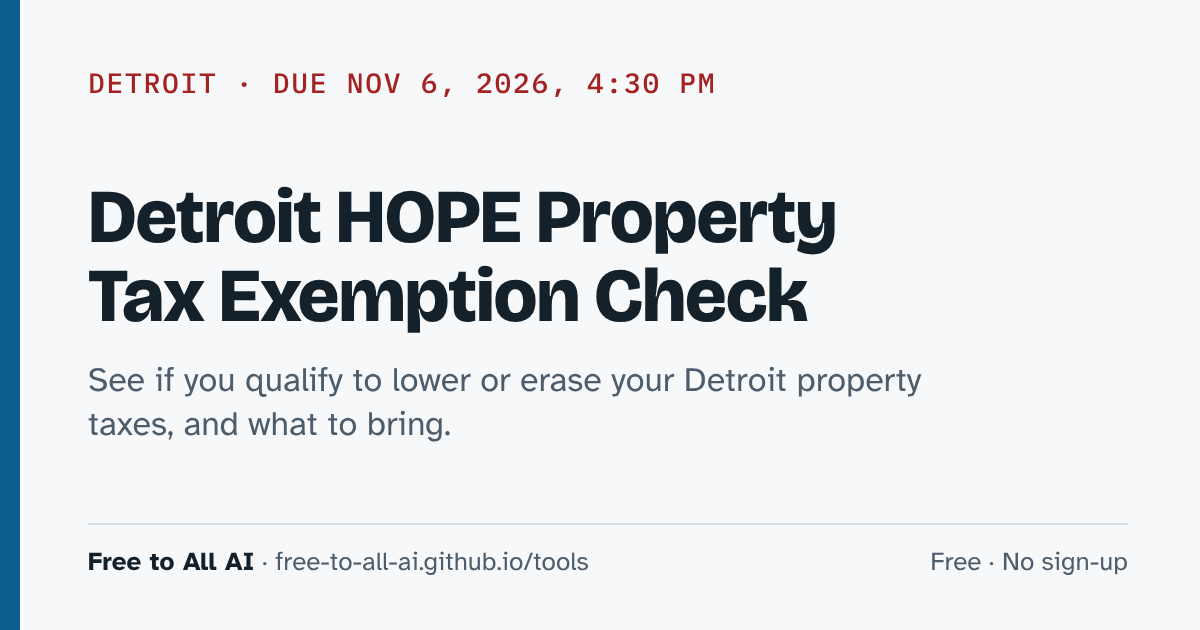
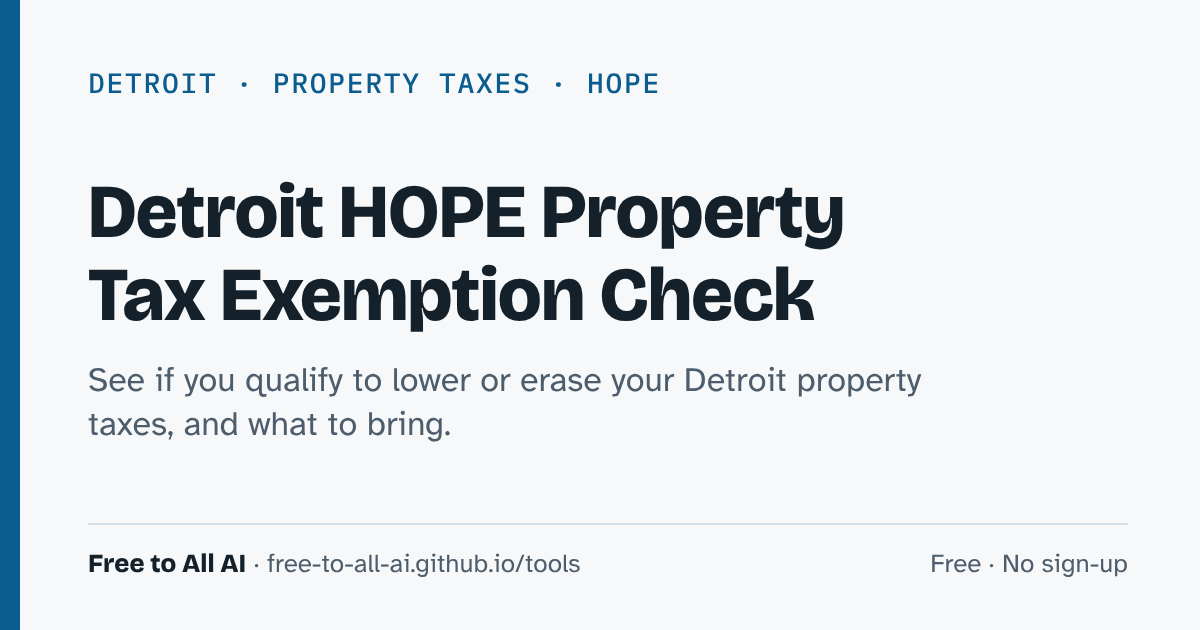
Update deadline text that had passed
The Detroit HOPE deadline (Nov 6, 2026) has passed, so the homepage no
longer lists it as coming up. Its card moves to All tools and says the
2026 deadline is over, and the page title, description, and link
preview drop the due date. The tool itself already showed the deadline
as passed.

UIA's switch to MiUI finished Nov 9, 2026 (LEO release, Nov 9), so the
unemployment tool, its homepage card, and the README no longer describe
the Nov 2 to 9 shutdown as ahead. The date math for notices from that
stretch is unchanged.

The winter shutoff card now says protection runs Nov 1 to Mar 31.
Sitemap dates updated for the three changed pages. Checked Nov 14, 2026.

Claude-Session: https://claude.ai/code/session_01MVRMsMwzsgmDkhtZdYY4EV

diff --git a/index.html b/index.html
@@ -98,15 +98,10 @@ footer { font-size: 14px; color: var(--muted); display: grid; gap: 8px; border-t
   </header>
 
   <section aria-labelledby="h-soon">
-    <h2 id="h-soon">Deadlines coming up</h2>
+    <h2 id="h-soon">In season now</h2>
     <ul class="tools">
       <li class="tool urgent">
-        <span class="when">Detroit · Due Friday, Nov 6, 2026, 4:30 PM</span>
-        <h3><a href="hope-exemption/">Detroit HOPE Property Tax Exemption Check</a></h3>
-        <p>Can't pay your Detroit property taxes? HOPE, the city's poverty exemption, can lower or wipe out your property taxes if your income is under the limit. See if you likely qualify and what your HOPE application needs. You don't have to be a senior.</p>
-      </li>
-      <li class="tool urgent">
-        <span class="when">Michigan · Winter protection starts Sunday, Nov 1</span>
+        <span class="when">Michigan · Winter protection runs Nov 1 to Mar 31</span>
         <h3><a href="shutoff-protection/">Michigan Winter Shutoff Protection Check</a></h3>
         <p>Behind on your DTE, Consumers Energy, SEMCO, or Michigan Gas Utilities bill, or holding a shut off notice? From November 1 to March 31, the Winter Protection Plan and the rules for seniors stop many shutoffs, and a medical hold works all year. See what fits you, about what you'd pay to stay on, and who can help pay.</p>
       </li>
@@ -117,6 +112,11 @@ footer { font-size: 14px; color: var(--muted); display: grid; gap: 8px; border-t
   <section aria-labelledby="h-all">
     <h2 id="h-all">All tools</h2>
     <ul class="tools">
+      <li class="tool">
+        <span class="where">Detroit · Property taxes</span>
+        <h3><a href="hope-exemption/">Detroit HOPE Property Tax Exemption Check</a></h3>
+        <p>Can't pay your Detroit property taxes? HOPE, the city's poverty exemption, can lower or wipe out your property taxes if your income is under the limit. The 2026 deadline (Nov 6) has passed. See if you'd likely qualify on the 2026 limits and what an application needs, so you're ready when the city posts the 2027 one. You don't have to be a senior.</p>
+      </li>
       <li class="tool">
         <span class="where">Michigan · Renters</span>
         <h3><a href="renter-rights/">Michigan Renter Rights Check</a></h3>
@@ -170,7 +170,7 @@ footer { font-size: 14px; color: var(--muted); display: grid; gap: 8px; border-t
       <li class="tool">
         <span class="where">Michigan · Unemployment</span>
         <h3><a href="uia-protest/">Michigan Unemployment Protest Deadline Check</a></h3>
-        <p>UIA denied your unemployment, cut it, or says you were overpaid? See the last day UIA must receive your protest or appeal, counting weekends, holidays, and the Nov. 2 to 9, 2026 switch to MiUI. Shows where to fax or mail it and drafts the letter.</p>
+        <p>UIA denied your unemployment, cut it, or says you were overpaid? See the last day UIA must receive your protest or appeal, counting weekends and Michigan legal holidays. Shows where to file, fax, or mail it and drafts the letter.</p>
       </li>
       <li class="tool">
         <span class="where">Michigan · Tax credits</span>

diff --git a/hope-exemption/index.html b/hope-exemption/index.html
@@ -3,14 +3,14 @@
 <head>
 <meta charset="utf-8">
 <meta name="viewport" content="width=device-width, initial-scale=1, viewport-fit=cover">
-<title>Detroit HOPE Property Tax Exemption Check (Due Nov 6)</title>
+<title>Detroit HOPE Property Tax Exemption Check: Income Limits</title>
 <meta name="claude:viewport-fit-sides" content="cover">
-<meta name="description" content="See if you qualify for Detroit's 2026 HOPE property tax exemption. Check the income limits for your household size and what to bring. Due Nov 6, 4:30 PM. Free.">
+<meta name="description" content="See if you'd qualify for Detroit's HOPE property tax exemption. Check the 2026 income limits for your household size and what to bring. The 2026 deadline was Nov 6. Free.">
 <link rel="canonical" href="https://free-to-all-ai.github.io/tools/hope-exemption/">
 <meta property="og:type" content="website">
 <meta property="og:site_name" content="Free to All AI">
-<meta property="og:title" content="Detroit HOPE Property Tax Exemption Check (Due Nov 6)">
-<meta property="og:description" content="See if you qualify for Detroit's 2026 HOPE property tax exemption. Check the income limits for your household size and what to bring. Due Nov 6, 4:30 PM. Free.">
+<meta property="og:title" content="Detroit HOPE Property Tax Exemption Check: Income Limits">
+<meta property="og:description" content="See if you'd qualify for Detroit's HOPE property tax exemption. Check the 2026 income limits for your household size and what to bring. The 2026 deadline was Nov 6. Free.">
 <meta property="og:url" content="https://free-to-all-ai.github.io/tools/hope-exemption/">
 <meta property="og:image" content="https://free-to-all-ai.github.io/tools/og/hope-exemption.png">
 <meta name="twitter:card" content="summary_large_image">

diff --git a/uia-protest/index.html b/uia-protest/index.html
@@ -229,7 +229,7 @@ footer { font-size: 14px; color: var(--muted); display: grid; gap: 8px; border-t
       <li><strong>UIA Advocacy Program, 1-800-638-3994, option 2.</strong> A free advocate can help you at your first hearing with a judge. Call after you get your Notice of Hearing, at least two business days before the hearing. Some cases don't qualify.</li>
       <li><a href="https://michiganlegalhelp.org/resources/employment/overview-of-unemployment-benefits" target="_blank" rel="noopener">Michigan Legal Help: Overview of Unemployment Benefits</a>, and its <a href="https://michiganlegalhelp.org/guide-to-legal-help" target="_blank" rel="noopener">Guide to Legal Help</a> to find free legal aid near you.</li>
       <li><a href="https://www.michbar.org/public_resources/legalaid" target="_blank" rel="noopener">State Bar of Michigan legal aid directory</a>. Look for "employment" or "unemployment."</li>
-      <li>UIA customer service: 1-866-500-0017 (TTY 1-866-366-0004), Monday to Friday, 8 AM to 4:30 PM. Phones and offices are closed from 4:30 PM Monday, Nov. 2, 2026 until 8 AM Monday, Nov. 9.</li>
+      <li>UIA customer service: 1-866-500-0017 (TTY 1-866-366-0004), Monday to Friday, 8 AM to 4:30 PM.</li>
       <li><a href="https://www.michigan.gov/lara/bureau-list/moahr/employment/unemployment" target="_blank" rel="noopener">MOAHR unemployment hearings</a>: 313-456-2700, MOAHRUA@michigan.gov.</li>
       <li><a href="https://www.michigan.gov/leo/boards-comms-councils/welcome-to-the-michigan-unemployment-insurance-appeals-commission" target="_blank" rel="noopener">Unemployment Insurance Appeals Commission</a>: 800-738-6372 or 517-284-9300.</li>
     </ul>

diff --git a/README.md b/README.md
@@ -27,12 +27,12 @@ This repo is a shelf of small, free tools for regular people. Each one does one 
 | [Gig Driver True Pay Calculator](gig-pay/) | Takes the pay, hours, and miles from your rideshare or delivery app and shows what you really made per hour after car costs. Shows unpaid miles and hours, a tax set-aside, and whether an offer is worth taking. | IRS standard mileage rates (Notice 2026-10 and Announcement 2026-11), IRS self-employment tax rules, and Michigan's minimum wage law, checked Oct 30, 2026 |
 | [Benefits Cut Letter Deadlines](benefits-deadlines/) | For a Michigan letter that denies, lowers, or stops food assistance (SNAP), Medicaid, cash, or child care help. Works out the last day to ask for a hearing and keep your benefits while you wait, and the last day to ask at all. Drafts the hearing request. | MDHHS Bridges Administrative Manual (BAM 600, 220, and 210), 7 CFR 273.15, and 42 CFR 431, checked Oct 30, 2026 |
 | [Michigan Back Pay Check](back-pay/) | Shows Michigan's minimum wage by date. Takes your hours and pay week by week and works out unpaid minimum wage, overtime, and promised pay, plus your filing deadlines. Gives a summary to paste into the state's free wage claim and the steps to file it. | Michigan's Improved Workforce Opportunity Wage Act (MCL 408.934 to 408.939), Payment of Wages Act (MCL 408.481 to 408.488), and the state labor department's rate history and claim form, checked Oct 30, 2026 |
-| [Detroit HOPE Property Tax Exemption Check](hope-exemption/) | For Detroit homeowners. Takes household size, income, and savings and shows whether you likely qualify for a full or partial HOPE property tax exemption on the city's 2026 table. Gives the November 6, 2026 deadline, what to bring, how to apply, and the note that only the Board of Review decides. | The City of Detroit's 2026 HOPE page and application, and MCL 211.7u (Michigan's poverty exemption law), checked Oct 31, 2026 |
+| [Detroit HOPE Property Tax Exemption Check](hope-exemption/) | For Detroit homeowners. Takes household size, income, and savings and shows whether you likely qualify for a full or partial HOPE property tax exemption on the city's 2026 table. Gives the deadline (November 6, 2026, now passed, with a note to watch for the 2027 one), what to bring, how to apply, and the note that only the Board of Review decides. | The City of Detroit's 2026 HOPE page and application, and MCL 211.7u (Michigan's poverty exemption law), checked Oct 31, 2026 |
 | [Michigan Winter Shutoff Protection Check](shutoff-protection/) | For a Michigan gas or electric bill you're behind on, or a shut off notice. Shows whether the Winter Protection Plan (Nov 1 to Mar 31), senior protection, a medical hold, critical care, or military protection covers you, about what you'd pay each month to stay on, and whether your notice gave you the required 10 days. Covers state-regulated utilities like DTE and Consumers Energy, and flags where city utilities and co-ops differ. Writes a script for the call. | MPSC consumer standards (Mich. Admin. Code R 460.101 to 460.169), MCL 460.9c, 460.9q, 460.9r, 460.9s, and 460.36, and the 2026 HHS poverty guidelines, checked Oct 31, 2026 |
 | [Michigan Clean Slate Expungement Check](clean-slate/) | List your Michigan convictions and dates. Shows whether each one may clear automatically under Clean Slate and when, or whether you may be able to apply to the court to set it aside (expunge it) and the earliest date. Covers the limits on felonies and assaultive crimes, the one-incident rule, first OWI, marijuana, and convictions that can never be cleared. Gives the steps to apply, a summary to bring to free legal help, and where to find that help. | Michigan's set aside law (MCL 780.621 to 780.624, including the 2020 Clean Slate amendments), the State Police and Attorney General expungement pages, and court form MC 227, checked Oct 31, 2026 |
 | [Is This a Scam? Warning Sign Check](scam-check/) | For older adults and the family members worried about them. Check off what happened on a call, text, email, pop-up, or visit, like gift cards, a crypto ATM, a wire, a "grandkid in jail" call, or a request to get into your computer. Shows the FTC and FBI warning signs it matches (never a verdict), steps to take right away if money or information already went out, and who to call in Michigan, starting with your bank. Large text and plain words. | FTC consumer advice and scam data, FBI IC3 alerts and the 2025 IC3 Annual Report, the DOJ National Elder Fraud Hotline, and the Michigan Attorney General and Adult Protective Services, checked Oct 31, 2026 |
 | [Michigan Medicare Savings Program Check](medicare-savings/) | For people on Medicare with lower incomes. Takes your Medicare status, monthly income, and savings and shows whether Michigan would likely pay your Part B premium, and with QMB your Medicare deductibles and copays too, under QMB, SLMB, QI (ALMB), or QDWI. Shows how Michigan counts income, what each program pays and when it starts, how to apply, QMB billing protections, and a letter for when a provider bills you anyway. | MDHHS Reference Table 242 (effective April 1, 2026), Bridges Eligibility Manual items 163, 165, 169, 211, 400, 503, and 541, Bridges Administrative Manual items 115, 600, and 810, the CMS 2026 Medicare premium fact sheet, Medicare.gov, and 42 U.S.C. 1396a(n)(3) and 1396p(b), checked Oct 31, 2026 |
-| [Michigan Unemployment Protest Deadline Check](uia-protest/) | For a Michigan unemployment notice you disagree with: a Notice of Determination, Monetary Determination, or Redetermination from UIA, a judge's decision, or an Appeals Commission decision. Works out the last day the protest or appeal must be received, counting weekends, Michigan legal holidays, and UIA's Nov. 2 to 9, 2026 shutdown for the switch to MiUI. Shows where to file, what happens next, the rules for late filing and overpayments, and drafts the protest or appeal letter. | Michigan Employment Security Act (MCL 421.32, 421.32a, 421.33, 421.34, 421.38, 421.49, 421.62), MCL 435.101, MCL 8.6, Mich. Admin. Code R 421.270, and UIA's protest and appeal pages, handbook (July 2026), Form UIA 1733, and MiUI switchover page, checked Oct 31, 2026 |
+| [Michigan Unemployment Protest Deadline Check](uia-protest/) | For a Michigan unemployment notice you disagree with: a Notice of Determination, Monetary Determination, or Redetermination from UIA, a judge's decision, or an Appeals Commission decision. Works out the last day the protest or appeal must be received, counting weekends and Michigan legal holidays. For notices from that stretch it also counts UIA's Nov. 2 to 9, 2026 shutdown for the switch to MiUI, which is over. Shows where to file, what happens next, the rules for late filing and overpayments, and drafts the protest or appeal letter. | Michigan Employment Security Act (MCL 421.32, 421.32a, 421.33, 421.34, 421.38, 421.49, 421.62), MCL 435.101, MCL 8.6, Mich. Admin. Code R 421.270, and UIA's protest and appeal pages, handbook (July 2026), Form UIA 1733, and MiUI switchover page, checked Oct 31, 2026 |
 | [Michigan Tax Credits You Might Be Missing](tax-credits/) | For working families, renters, homeowners, and seniors. Takes household, income, and rent or property taxes and estimates the federal EITC, Michigan's Working Families Tax Credit (30% of the federal EITC), the Homestead Property Tax Credit, and the Home Heating Credit for tax year 2026 or 2025. Marks the 2026 Michigan figures as estimates until Treasury posts that year's tables, lists earlier years still open with the last day to claim each, and makes a summary to bring to free tax help. | IRS Rev. Proc. 2025-32 and 2024-40, 26 U.S.C. 32, the IRS EITC pages, MCL 206.272, 206.520, and 206.527a, and Michigan Treasury's 2025 Homestead limits, Home Heating Credit tables, and MI-1040CR and MI-1040CR-7 forms, checked Oct 31, 2026 |
 | [Free College in Michigan: Who Qualifies?](free-college/) | Takes your age, how you finished high school and when, where you want to go, and whether you lived in Detroit, and shows whether Michigan Reconnect (ages 21 and up since the 2026-27 budget), the Michigan Achievement Scholarship (Community College Guarantee, four-year award, or Skills Scholarship), the Tuition Incentive Program (TIP), or the Detroit Promise likely covers you. Checks each rule one by one, flags the ones that depend on your facts, and gives the steps to claim it. | MiLEAP's Reconnect and MI Student Aid program pages, the 2026-27 state budget summary (July 22, 2026), the Michigan Reconnect Grant Recipient Act (MCL 390.1715 to 390.1717), and detroitpromise.com, checked Oct 31, 2026 |
 | [Michigan Medicaid Free Rides Finder](medicaid-rides/) | Pick the health plan on your Medicaid or Healthy Michigan Plan card and get the number to call for a free ride to the doctor, dentist, pharmacy, or therapy, how far ahead to book, and the last day to call for your appointment. Covers all nine Medicaid health plans and Medicaid with no plan, plus the pickup and wait-time rules every plan must follow, mileage pay when a friend drives you, and what to do when a ride doesn't come. Writes a call script. | Each plan's own ride page or member handbook, the state's list of plan ride contacts (revised Oct 1, 2026), the state's 2026 contract with the plans, the Medicaid Provider Manual, and 42 CFR 431.53, checked Oct 31, 2026 |
